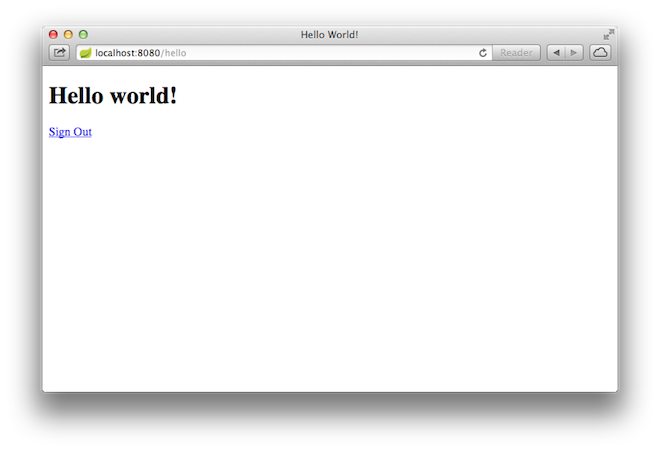
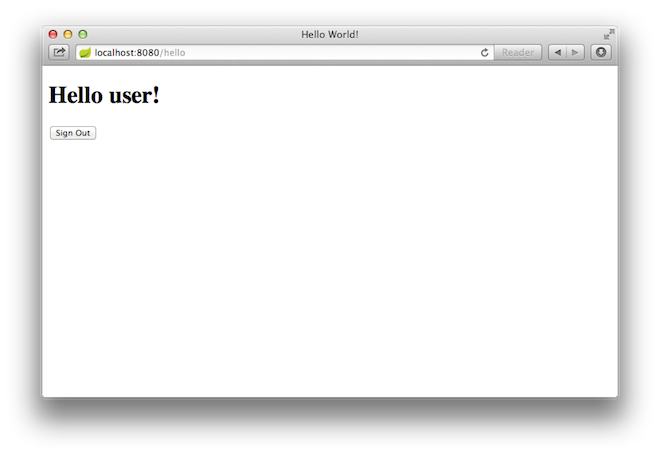
Fix Sample
- Previously the application displayed sign out from initial which was a link rather than a form. Remove Sign Out from initial while displaying proper Sign Out setup
- Use EnableWebMvcSecurity and remove explicit CSRF tokens
- Display the current user
- Provide error and success messages on the login page
- Update the greeting.png

Changed region(s): [[0.0606, 0.0621, 0.9394, 0.1552], [0.0606, 0.1863, 0.2727, 0.2483], [0.0606, 0.2794, 0.1515, 0.3104]]

diff --git a/complete/src/main/resources/templates/login.html b/complete/src/main/resources/templates/login.html
@@ -5,10 +5,15 @@
         <title>Spring Security Example </title>
     </head>
     <body>
+        <div th:if="${param.error}">
+            Invalid username and password.
+        </div>
+        <div th:if="${param.logout}">
+            You have been logged out.
+        </div>
         <form th:action="@{/login}" method="post">
             <div><label> User Name : <input type="text" name="username"/> </label></div>
             <div><label> Password: <input type="password" name="password"/> </label></div>
-            <input type="hidden" th:name="${_csrf.parameterName}" th:value="${_csrf.token}"/>
             <div><input type="submit" value="Sign In"/></div>
         </form>
     </body>

diff --git a/complete/src/main/resources/templates/hello.html b/complete/src/main/resources/templates/hello.html
@@ -5,10 +5,9 @@
         <title>Hello World!</title>
     </head>
     <body>
-        <h1>Hello world!</h1>
+        <h1 th:inline="text">Hello [[${#httpServletRequest.remoteUser}]]!</h1>
         <form th:action="@{/logout}" method="post">
-            <input type="hidden" th:name="${_csrf.parameterName}" th:value="${_csrf.token}"/>
-            <div><input type="submit" value="Sign Out"/></div>
+            <input type="submit" value="Sign Out"/>
         </form>
     </body>
 </html>

diff --git a/initial/src/main/resources/templates/hello.html b/initial/src/main/resources/templates/hello.html
@@ -6,6 +6,5 @@
     </head>
     <body>
         <h1>Hello world!</h1>
-        <div><a th:href="@{/logout}">Sign Out</a></div>
     </body>
 </html>

diff --git a/complete/src/main/java/hello/WebSecurityConfig.java b/complete/src/main/java/hello/WebSecurityConfig.java
@@ -3,11 +3,11 @@ package hello;
 import org.springframework.context.annotation.Configuration;
 import org.springframework.security.config.annotation.authentication.builders.AuthenticationManagerBuilder;
 import org.springframework.security.config.annotation.web.builders.HttpSecurity;
-import org.springframework.security.config.annotation.web.configuration.EnableWebSecurity;
 import org.springframework.security.config.annotation.web.configuration.WebSecurityConfigurerAdapter;
+import org.springframework.security.config.annotation.web.servlet.configuration.EnableWebMvcSecurity;
 
 @Configuration
-@EnableWebSecurity
+@EnableWebMvcSecurity
 public class WebSecurityConfig extends WebSecurityConfigurerAdapter {
     @Override
     protected void configure(HttpSecurity http) throws Exception {
@@ -17,7 +17,6 @@ public class WebSecurityConfig extends WebSecurityConfigurerAdapter {
                 .anyRequest().authenticated();
         http
             .formLogin()
-                .defaultSuccessUrl("/hello")
                 .loginPage("/login")
                 .permitAll()
                 .and()
@@ -26,8 +25,9 @@ public class WebSecurityConfig extends WebSecurityConfigurerAdapter {
     }
 
     @Override
-    protected void configure(AuthenticationManagerBuilder authManagerBuilder) throws Exception {
-        authManagerBuilder.inMemoryAuthentication()
+    protected void configure(AuthenticationManagerBuilder auth) throws Exception {
+        auth
+            .inMemoryAuthentication()
                 .withUser("user").password("password").roles("USER");
     }
 }
